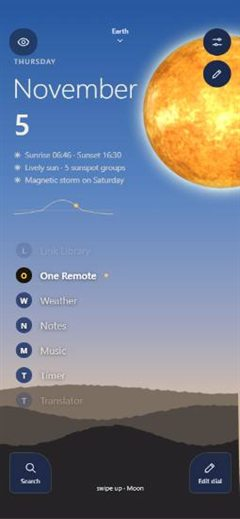
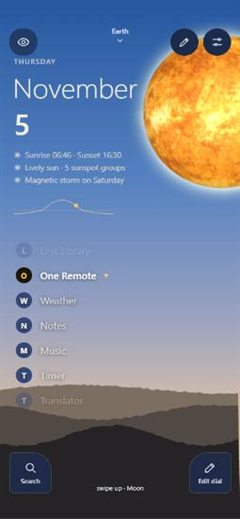
Sun Launcher v111: pencil in the top row, Sun list can stop at its ends, lists clear of all buttons

Changed region(s): [[0.6125, 0.0308, 1.0, 0.3391], [0.9625, 0.2775, 1.0, 0.3699], [0.7, 0.2775, 0.7583, 0.3391]]

diff --git a/index.html b/index.html
@@ -255,7 +255,7 @@ button:focus-visible, a:focus-visible, .seg input:focus-visible + label, input:f
 /* Sun views (22 Oct): the app buttons become cards (Real sun today), a plain list (Minimal sun) or text on a dial (Clock dial) */
 #app.sv #sunInfo, #app.sv #clockChip { display: none !important; }
 #app.sv .facet.sv-off { opacity: 0 !important; pointer-events: none; }
-#app.sv-today .facet { width: min(278px, calc(100vw - 96px)); height: 52px; border-radius: 14px; padding: 0 16px; gap: 12px; font-size: 16px; transform-origin: 50% 50%; }
+#app.sv-today .facet { width: var(--todayw, min(278px, calc(100vw - 96px))); height: 52px; border-radius: 14px; padding: 0 16px; gap: 12px; font-size: 16px; transform-origin: 50% 50%; }
 #app.sv-minimal .facet, #app.sv-clock .facet:not(.front) { background: transparent !important; border-color: transparent !important; box-shadow: none !important; -webkit-backdrop-filter: none !important; backdrop-filter: none !important; text-shadow: 0 1px 6px rgba(0, 0, 0, 0.7); }
 #app.sv-minimal .facet { height: 40px; gap: 14px; padding: 0 8px; font-size: 17px; font-weight: 400; color: rgba(250, 244, 236, 0.75); transform-origin: 0 50%; }
 #app.sv-minimal .facet .ini { width: 28px; height: 28px; }
@@ -821,9 +821,10 @@ label[for="photo-stars"] { background-image: url("sky-night.jpg"); }
 #app.ml-dial3d .item:not(.sel) { background: rgba(38, 54, 94, .94); border-color: rgba(235, 240, 250, .6); }
 #app:not(.sv) .facet.mini { width: 40px; height: 40px; padding: 0; justify-content: center; background: rgba(38, 54, 94, .94) !important; border: 1.5px solid rgba(235, 240, 250, .6) !important; }
 #app:not(.sv) .facet.mini .ini { background: transparent; color: #EEF0F5; }
-/* v110 (user): a clear Edit button on every screen, under Settings */
-.roundbtn.editl { top: calc(72px + var(--st)); right: max(16px, env(safe-area-inset-right, 0px)); }
+/* v110 (user): a clear Edit button on every screen; v111: in the top row, beside Settings */
+.roundbtn.editl { right: calc(72px + env(safe-area-inset-right, 0px)); }
 #app.watch .roundbtn.editl, #app.editing .roundbtn.editl { opacity: 0; pointer-events: none; }
+@media (max-width: 400px) { .handle.top { width: 116px; margin-left: -58px; font-size: 11px; white-space: nowrap; overflow: hidden; } }
 </style>
 
 <div id="app">
@@ -1078,6 +1079,13 @@ label[for="photo-stars"] { background-image: url("sky-night.jpg"); }
         <div class="seg">
           <input type="radio" name="listStyle" id="ls-pills" value="pills"><label for="ls-pills">Pills</label>
           <input type="radio" name="listStyle" id="ls-plain" value="plain"><label for="ls-plain">Plain</label>
+        </div>
+      </fieldset>
+      <fieldset>
+        <legend>Sun list</legend>
+        <div class="seg">
+          <input type="radio" name="sunList" id="sli-loop" value="loop"><label for="sli-loop">Loop</label>
+          <input type="radio" name="sunList" id="sli-ends" value="ends"><label for="sli-ends">Stop at ends</label>
         </div>
       </fieldset>
       <fieldset>
@@ -1471,7 +1479,8 @@ label[for="photo-stars"] { background-image: url("sky-night.jpg"); }
 (function () {
   'use strict';
   const $ = (id) => document.getElementById(id);
-  const APP_VERSION = 'v110';  // v61: shown in Updates and About (sw.js CACHE has the same number)
+  const realText = (s) => /^\[.*\]$/.test(s || '') ? '' : s;  // v111: "[One line on ...]" waits for real text; it is not shown
+  const APP_VERSION = 'v111';  // v61: shown in Updates and About (sw.js CACHE has the same number)
   const setText = (id, t) => { const el = $(id); if (el.textContent !== t) el.textContent = t; };  // v59
   let reduce = false;
   try { reduce = window.matchMedia('(prefers-reduced-motion: reduce)').matches; } catch (e) {}
@@ -1549,7 +1558,7 @@ label[for="photo-stars"] { background-image: url("sky-night.jpg"); }
   const FRONT_FX = ['lift', 'dim', 'halo', 'glint'];
   // Neon look styles (22 Oct: user removed the old Neon, Cyberpunk and Tron; Minimal is the default).
   const NEON_STYLES = ['minimal', 'synth'];
-  const S = { moonList: 'ends', listStyle: 'pills', dialBy: {}, dailyModel: 'off', dailyDay: '', moonModel: 'real', mode: 'two', theme: 'auto', sunLook: 'rays', sunView: 'dial', pairLink: 'on', chargeMode: 'auto', dir: 'flat', moonLook: 'dots', color: '#FFC94D', sunTime: true, fx: 'fancy', haptics: 'soft', sound: 'off', tilt: 45, size: 125, sky: 'clock', hour: 12, rayStyle: 'glow', frontFx: [], swap: 'off', skyPhoto: 'clear', moonDial: 'glow', sunList: 'edge', neonStyle: 'minimal', liveSun: 'off', weather: 'off', moonPhase: 'real', startScreen: 'planet', order: BASE_APPS.map((a) => a.name), onMoon: [], recent: [], favs: ['Backup & restore', 'Theme', 'Offline status'], custom: null, visits: 0, pins: [], useHours: {}, tune: {}, looks: { sun: [], moon: [] }, sunSet: 'off', tips: 'on', hints: {}, loc: 'fixed', place: null, textSize: 'normal', apps: null, chipsPos: 'below', notes: 'on', seasons: 'off', useWeek: {}, seasonsOff74: 0, strip: 'off', clockStyle: 'thin', timePos: 'top', eyePos: 'top', homePages: null, homeDock: null, flySound: 'off', flySharp: 'on', eyeAt: {}, skyAlerts: 'off', realClouds: 'on', cloudDay: '', cloudTry: 0 };
+  const S = { sunList: 'loop', moonList: 'ends', listStyle: 'pills', dialBy: {}, dailyModel: 'off', dailyDay: '', moonModel: 'real', mode: 'two', theme: 'auto', sunLook: 'rays', sunView: 'dial', pairLink: 'on', chargeMode: 'auto', dir: 'flat', moonLook: 'dots', color: '#FFC94D', sunTime: true, fx: 'fancy', haptics: 'soft', sound: 'off', tilt: 45, size: 125, sky: 'clock', hour: 12, rayStyle: 'glow', frontFx: [], swap: 'off', skyPhoto: 'clear', moonDial: 'glow', sunList: 'edge', neonStyle: 'minimal', liveSun: 'off', weather: 'off', moonPhase: 'real', startScreen: 'planet', order: BASE_APPS.map((a) => a.name), onMoon: [], recent: [], favs: ['Backup & restore', 'Theme', 'Offline status'], custom: null, visits: 0, pins: [], useHours: {}, tune: {}, looks: { sun: [], moon: [] }, sunSet: 'off', tips: 'on', hints: {}, loc: 'fixed', place: null, textSize: 'normal', apps: null, chipsPos: 'below', notes: 'on', seasons: 'off', useWeek: {}, seasonsOff74: 0, strip: 'off', clockStyle: 'thin', timePos: 'top', eyePos: 'top', homePages: null, homeDock: null, flySound: 'off', flySharp: 'on', eyeAt: {}, skyAlerts: 'off', realClouds: 'on', cloudDay: '', cloudTry: 0 };
   try {
     let saved = JSON.parse(localStorage.getItem(KEY) || 'null');
     if (!saved) {
@@ -1612,6 +1621,7 @@ label[for="photo-stars"] { background-image: url("sky-night.jpg"); }
   if (['real', 'corona', 'disco', 'dandelion', 'eclipse', 'flames', 'neon', 'synth'].indexOf(S.moonModel) === -1) S.moonModel = 'real';  // v100
   if (S.dailyModel !== 'on') S.dailyModel = 'off';  // v102
   if (S.moonList !== 'loop') S.moonList = 'ends';  // v110
+  if (S.sunList !== 'ends') S.sunList = 'loop';  // v111
   if (S.listStyle !== 'plain') S.listStyle = 'pills';  // v110
   if (!S.dialBy || typeof S.dialBy !== 'object') S.dialBy = {};  // v110
   if (S.moonModel === 'real' && S.sunLook === 'rays' && S.rayStyle === 'corona') S.moonModel = 'corona';  // v110: Corona has its own moon
@@ -2971,6 +2981,7 @@ label[for="photo-stars"] { background-image: url("sky-night.jpg"); }
       st[st.spin] += st.vel * dt;
       st.vel *= Math.exp(-dt / 325);
       let stop = Math.abs(st.vel) < (st.spin === 'rot' ? 0.03 : 0.0006);
+      if (st.spin === 'rot' && sunEnds()) { const u = (frontDeg() - st.rot) / (360 / APPS.length); if (u < -0.3 || u > APPS.length - 0.7) stop = true; }
       if (st.spin === 'pos' && !moonLoops() && (st.pos < -0.3 || st.pos > LIST.length - 0.7)) stop = true;
       if (stop) { const key = st.spin; st.spin = null; if (key === 'rot') snapRot(); else snapPos(); }
       active = true;
@@ -3115,14 +3126,23 @@ label[for="photo-stars"] { background-image: url("sky-night.jpg"); }
     const n = APPS.length, step = 360 / n;
     return ((Math.round((frontDeg() - st.rot) / step) % n) + n) % n;
   }
+  // v111 (user: uniform, no overlaps): a list name fades before it reaches the top row of buttons or the bottom corners. 1 = free, 0 = gone
+  function roomK(side, y) {
+    const g = $(side + 'Settings'), b = $(side + 'Search');
+    if (!b.offsetHeight) return 1;
+    return clamp((y - 22 - g.offsetTop - g.offsetHeight) / 20, 0, 1) * clamp((b.offsetTop - y - 22) / 20, 0, 1);
+  }
+  // v111 (user): the Sun list can stop at its ends too; it then shows nothing past its first and last app
+  const sunEnds = () => S.sunList === 'ends' && APPS.length > 2;
+  function sunNormal() { st.rot = frontDeg() - frontIndex() * 360 / Math.max(1, APPS.length); }
   function snapRot() {
-    const step = 360 / APPS.length, fd = frontDeg(), k = Math.round((fd - st.rot) / step);
+    const step = 360 / APPS.length, fd = frontDeg(), k0 = Math.round((fd - st.rot) / step), k = sunEnds() ? clamp(k0, 0, APPS.length - 1) : k0;
     tween('rot', fd - k * step, 320);
   }
   function rotateTo(i) {
     const step = 360 / APPS.length, base = frontDeg() - i * step;
     const d = ((((base - st.rot) % 360) + 540) % 360) - 180;
-    tween('rot', st.rot + d, 480);
+    tween('rot', sunEnds() ? base : st.rot + d, 480);
   }
 
   let facetEls = [];
@@ -3559,7 +3579,8 @@ label[for="photo-stars"] { background-image: url("sky-night.jpg"); }
       }
       el.classList.toggle('flip', flip);
       el.style.zIndex = String(500 + Math.round(p[3]));
-      const below = hzD.on && i !== front && p[1] > hzY() - 24;  // v45: behind the hills
+      const past = sunEnds() && Math.abs(i - (frontDeg() - st.rot) / (360 / APPS.length)) > APPS.length / 2;  // v111: past the end of the list
+      const below = past || (hzD.on && i !== front && p[1] > hzY() - 24);  // v45: behind the hills
       el.style.opacity = below ? '0' : (0.3 + 0.7 * f).toFixed(2);
       el.style.pointerEvents = below ? 'none' : '';
       // v34: only the front app shows its name; the neighbours show their round initial (they slid under the front pill)
@@ -3575,7 +3596,7 @@ label[for="photo-stars"] { background-image: url("sky-night.jpg"); }
         el.setAttribute('aria-label', APPS[i].name + (i === front ? ', in front. Tap to open, hold for shortcuts' : ''));
       });
       $('sunName').textContent = APPS[front].name;
-      $('sunHint').textContent = APPS[front].hint;
+      $('sunHint').textContent = realText(APPS[front].hint);
       lastFront = front;
     }
     let maxY = 0, minY = H;
@@ -3744,17 +3765,20 @@ label[for="photo-stars"] { background-image: url("sky-night.jpg"); }
       if (look === 'blackhole' && r >= 30) Object.assign(opt, { mode: 'blackhole', glow: 1, margin: Math.max(opt.margin, 1.9) });
       GLB.draw(c, x, y, r, opt);
     };
-    const dOf = (i) => { let d = (((i - pos) % n) + n) % n; if (d > n / 2) d -= n; return d; };
-    const place = (fn) => facetEls.forEach((el, i) => {
+    const dOf = (i) => { if (sunEnds()) return i - pos; let d = (((i - pos) % n) + n) % n; if (d > n / 2) d -= n; return d; };
+    const sbT = $('sunSearch'); let tNarrow = false;
+    const place = (fn) => { facetEls.forEach((el, i) => {
       el.classList.remove('mini', 'flip');
       const r = fn(dOf(i), i === front, el);
+      if (S.sunView === 'today') { if (r && sbT.offsetHeight && r.y + 24 > sbT.offsetTop) tNarrow = true; }
+      else if (r && i !== front) { const k = roomK('sun', r.y); if (k <= 0) { el.classList.add('sv-off'); return; } r.o *= k; }
       el.classList.toggle('sv-off', !r);
       if (!r) return;
       if (r.mini) el.classList.add('mini');
       el.style.transform = 'translate(' + r.x.toFixed(1) + 'px,' + r.y.toFixed(1) + 'px) translate(' + (r.left ? '0' : '-50%') + ',-50%) scale(' + (r.s || 1).toFixed(3) + ')';
       el.style.opacity = clamp(r.o, 0, 1).toFixed(2);
       el.style.zIndex = String(i === front ? 520 : 510);
-    });
+    }); if (S.sunView === 'today') app.style.setProperty('--todayw', tNarrow ? (W - 2 * (sbT.offsetLeft + sbT.offsetWidth + 8)) + 'px' : ''); };
     if (front !== lastFront) {
       facetEls.forEach((el, i) => { el.classList.toggle('front', i === front); el.setAttribute('aria-label', APPS[i].name + (i === front ? ', selected. Tap to open, hold for shortcuts' : '')); });
       lastFront = front;
@@ -3848,7 +3872,7 @@ label[for="photo-stars"] { background-image: url("sky-night.jpg"); }
       }
       const cur = APPS[front];
       txt(cur.name, W / 2, H * 0.7, 30, 600, '#F5EFE3', 'center');
-      if (cur.hint) txt(cur.hint, W / 2, H * 0.745, 15, 400, muted, 'center');
+      if (realText(cur.hint)) txt(cur.hint, W / 2, H * 0.745, 15, 400, muted, 'center');
       place((d) => {
         if (Math.abs(d) > 4.5) return null;
         const a = d * stepA;
@@ -4288,8 +4312,9 @@ label[for="photo-stars"] { background-image: url("sky-night.jpg"); }
       const x = G.Ix - G.Ri * Math.cos(rad), y = cy + G.Ri * Math.sin(rad);
       const sc = isSel ? 1.3 : 1 - Math.min(ad, 60) / 60 * 0.16;
       el.style.transform = 'translate(' + x.toFixed(1) + 'px,' + y.toFixed(1) + 'px) translate(-14px,-50%) scale(' + sc.toFixed(3) + ')';
-      el.style.opacity = isSel ? '1' : fade.toFixed(2);
-      el.style.visibility = fade > 0.02 || isSel ? 'visible' : 'hidden';
+      const fk = fade * roomK('moon', y);
+      el.style.opacity = isSel ? '1' : fk.toFixed(2);
+      el.style.visibility = fk > 0.02 || isSel ? 'visible' : 'hidden';
     });
     $('moonTip').hidden = !showTips;
     if (live !== lastLive && cur) {
@@ -4298,7 +4323,7 @@ label[for="photo-stars"] { background-image: url("sky-night.jpg"); }
         el.setAttribute('aria-label', LIST[i].name + (i === live ? ', selected. Tap to open' : ''));
       });
       $('moonName').textContent = cur.name;
-      $('moonHint').textContent = cur.app ? cur.hint : cur.group + ' · ' + (live + 1) + ' of ' + N;
+      $('moonHint').textContent = cur.app ? realText(cur.hint) : cur.group + ' · ' + (live + 1) + ' of ' + N;
       lastLive = live; moonInfoH = 0;
     }
     if (look !== vsMoonShown) { vsMoonShown = look; moonInfoH = 0; vsRender(); }  // v59: "Follow the time" changed the moon: the slider follows
@@ -4487,7 +4512,8 @@ label[for="photo-stars"] { background-image: url("sky-night.jpg"); }
     drawWeather(c, W, H, now);
     drawRipples(c, 'moon', now, '#DCE2EE');
     // menu items: cards (D) or a plain list (B), the chosen one in the middle; scroll with the finger
-    const cw = Math.min(280, W - 100);
+    // v111 (user): if the rows reach the height of Search, they get narrower and stay clear of it
+    const sb = $('moonSearch'), sbX = sb.offsetLeft + sb.offsetWidth + 8, cw = cards && listY + rowGap + 24 > sb.offsetTop ? Math.min(280, W - 2 * sbX) : Math.min(280, W - 100);
     $('items').style.setProperty('--cardw', Math.round(cw) + 'px');
     itemEls.forEach((el, i) => {
       const dd = moonD(i), ad = Math.abs(dd);
@@ -4497,8 +4523,9 @@ label[for="photo-stars"] { background-image: url("sky-night.jpg"); }
         const rad = dd * 7.2 * Math.PI / 180, x = scene.C0 + scene.r * Math.cos(rad), y = scene.C1 + scene.r * Math.sin(rad), sel = i === live;
         el.dataset.n = String(i + 1).padStart(2, '0');
         el.style.transform = 'translate(' + (x + (sel ? 0 : 6)).toFixed(1) + 'px,' + y.toFixed(1) + 'px) translate(0,-50%) scale(' + (sel ? 1 : Math.max(0.7, 1 - ad * 0.058)).toFixed(3) + ')';
-        el.style.opacity = ad < 7.5 ? (sel ? '1' : Math.max(0.12, 1 - ad * 0.17).toFixed(2)) : '0';
-        el.style.visibility = ad < 7.5 ? 'visible' : 'hidden';
+        const rk = sel ? 1 : roomK('moon', y);
+        el.style.opacity = ad < 7.5 ? (sel ? '1' : (Math.max(0.12, 1 - ad * 0.17) * rk).toFixed(2)) : '0';
+        el.style.visibility = ad < 7.5 && rk > 0 ? 'visible' : 'hidden';
         el.style.zIndex = String(200 - Math.round(ad * 10));
         return;
       }
@@ -4520,11 +4547,12 @@ label[for="photo-stars"] { background-image: url("sky-night.jpg"); }
         el.style.zIndex = String(sel ? 300 : Math.round(100 + f * 100));
         return;
       }
-      const vis = cards ? ad < 1.6 && (!phaseRow || listY + dd * rowGap > phaseRow.y + 80) : ad < 4.6;  // v73: never on the mini moons
+      const lk = cards || i === live ? 1 : roomK('moon', listY + dd * rowGap);
+      const vis = cards ? ad < 1.6 && (!phaseRow || listY + dd * rowGap > phaseRow.y + 80) : ad < 4.6 && lk > 0;  // v73: never on the mini moons
       el.style.zIndex = String(200 - Math.round(ad * 10));
       if (cards) el.style.transform = 'translate(' + (W / 2).toFixed(1) + 'px,' + (listY + dd * rowGap).toFixed(1) + 'px) translate(-50%,-50%) scale(' + (1 - Math.min(ad, 2) * 0.06).toFixed(3) + ')';
       else el.style.transform = 'translate(18px,' + (listY + dd * rowGap).toFixed(1) + 'px) translate(0,-50%)';
-      el.style.opacity = vis ? Math.max(0.15, 1 - ad * (cards ? 0.38 : 0.2)).toFixed(2) : '0';
+      el.style.opacity = vis ? (Math.max(0.15, 1 - ad * (cards ? 0.38 : 0.2)) * lk).toFixed(2) : '0';
       el.style.visibility = vis ? 'visible' : 'hidden';
     });
     labelEls.forEach((el) => { el.style.transform = 'translate(-999px,-999px)'; });
@@ -4532,7 +4560,7 @@ label[for="photo-stars"] { background-image: url("sky-night.jpg"); }
     if (live !== lastLive && cur) {
       itemEls.forEach((el, i) => { el.classList.toggle('sel', i === live); el.setAttribute('aria-label', LIST[i].name + (i === live ? ', selected. Tap to open' : '')); });
       $('moonName').textContent = cur.name;
-      $('moonHint').textContent = cur.app ? cur.hint : cur.group + ' · ' + (live + 1) + ' of ' + LIST.length;
+      $('moonHint').textContent = cur.app ? realText(cur.hint) : cur.group + ' · ' + (live + 1) + ' of ' + LIST.length;
       lastLive = live;
     }
     $('moonInfo').style.top = Math.round(H + 40) + 'px';
@@ -6886,6 +6914,7 @@ label[for="photo-stars"] { background-image: url("sky-night.jpg"); }
       // ring screens turn with a sideways swipe (v34)
       const svg = sv ? sunViewGeo() : null;
       st.rot = sv ? drag.start + (svg.sideways ? dx : dy) / svg.row * (360 / APPS.length) : drag.start - along * 0.5 * (G.sinT < 0 ? -1 : 1);
+      if (sunEnds()) { const sp = 360 / APPS.length, fd = frontDeg(); st.rot = clamp(st.rot, fd - (APPS.length - 0.6) * sp, fd + 0.4 * sp); }
       drag.samples.push({ t: performance.now(), v: st.rot });
       if (drag.samples.length > 8) drag.samples.shift();
       kick();
@@ -7600,12 +7629,12 @@ label[for="photo-stars"] { background-image: url("sky-night.jpg"); }
     openSheet(a.name, 'Link not set yet: [' + a.name + ' address].', '', false);
   }
   function openShortcuts(a) {
-    const acts = (a.short || []).map((q) => ({
+    const acts = (a.short || []).filter((q) => realText(q.label)).map((q) => ({
       label: q.label,
       run: () => { pushRecent(a.name); if (!q.href && a.name === 'Timer') { const n = /(\d+)/.exec(q.label); if (/stopwatch/i.test(q.label)) openTimer('stop', 0, true); else openTimer(n ? 'timer' : 'focus', n ? +n[1] : 0, true); return; } if (q.href) { hapt('press'); const w = window.open(q.href, '_blank'); if (w) w.opener = null; else location.href = q.href; } else toast(a.name + ': ' + q.label + ' has no link yet (Edit app).'); }
     }));
     acts.push({ label: '✎ Edit app', run: () => openAppForm(a.name) }, { label: 'Remove ' + a.name, run: () => askRemove(a.name) });
-    openSheet(a.name, a.short && a.short.length ? 'Quick actions' : 'No quick actions yet: add them in Edit app.', a.href, false, acts);
+    openSheet(a.name, acts.length ? 'Quick actions' : 'No quick actions yet: add them in Edit app.', a.href, false, acts);
   }
   // v61: the Moon menu functions (user): Look opens the right part of Settings, Data saves / loads / cleans,
   // Safety and Info explain, Phone opens its setting. Things a web app cannot do say so in one line.
@@ -7664,7 +7693,7 @@ label[for="photo-stars"] { background-image: url("sky-night.jpg"); }
   try { if (navigator.storage && navigator.storage.persisted) navigator.storage.persisted().then((p) => p || !navigator.storage.persist ? p : navigator.storage.persist()).then((p) => { storageKept = !!p; }).catch(() => {}); } catch (e) {}
   function mb(b) { return (b / 1048576).toFixed(b < 10485760 ? 1 : 0) + ' MB'; }
   function sheetInfo(title, text, actions) { openSheet(title, text, '', false, actions); $('sheetText').style.whiteSpace = 'pre-line'; }
-  const NEWS = 'v110 · Sun and Moon now match better on every screen, and both lists open in the middle. New Corona and Flames moons, soft eclipse rays, stronger Neon, softer Disco light. An Edit button on every screen. The flight has true sizes.';
+  const NEWS = 'v111 · Sun and Moon now match better on every screen, and both lists open in the middle. Each list can loop or stop at its ends. New Corona and Flames moons, soft eclipse rays, stronger Neon, softer Disco light. An Edit button on every screen. The flight has true sizes.';
   const FUNC_RUN = {
     // Look
     'Theme': () => openSettingsAt('Look follows the time of day'),
@@ -8153,7 +8182,7 @@ label[for="photo-stars"] { background-image: url("sky-night.jpg"); }
 
   /* ---------- Settings ---------- */
   const form = $('settingsForm');
-  const RADIOS = ['mode', 'theme', 'moonLook', 'sky', 'fx', 'haptics', 'sound', 'skyPhoto', 'moonDial', 'neonStyle', 'liveSun', 'weather', 'moonPhase', 'startScreen', 'sunView', 'chargeMode', 'sunSet', 'tips', 'loc', 'notes', 'seasons', 'strip', 'clockStyle', 'flySound', 'flySharp', 'skyAlerts', 'realClouds', 'moonModel', 'dailyModel', 'moonList', 'listStyle'];
+  const RADIOS = ['mode', 'theme', 'moonLook', 'sky', 'fx', 'haptics', 'sound', 'skyPhoto', 'moonDial', 'neonStyle', 'liveSun', 'weather', 'moonPhase', 'startScreen', 'sunView', 'chargeMode', 'sunSet', 'tips', 'loc', 'notes', 'seasons', 'strip', 'clockStyle', 'flySound', 'flySharp', 'skyAlerts', 'realClouds', 'moonModel', 'dailyModel', 'sunList', 'moonList', 'listStyle'];
   // v90 (user): the flight's sound can be a file from the phone; kept only on this phone
   $('flyPick').addEventListener('click', () => $('flyFile').click());
   $('flyFile').addEventListener('change', function () {
@@ -8513,6 +8542,7 @@ label[for="photo-stars"] { background-image: url("sky-night.jpg"); }
     if (changed === 'moonLook') S.moonLook = tappedMoon;
     if (changed === 'color') { S.sunTime = tappedColor[0]; S.color = tappedColor[1]; }
     if (changed === 'sunView') sunStyleUI();
+    if (changed === 'sunList') { sunNormal(); lastFront = -1; }
     if (changed === 'moonList' && LIST.length) { const n = LIST.length; st.pos = ((Math.round(st.pos) % n) + n) % n; }
     if (changed === 'pairLink') { S.pairLink = $('pairLink').checked ? 'on' : 'off'; pairUI(); }
     if (changed === 'pair') {

diff --git a/sw.js b/sw.js
@@ -2,7 +2,7 @@
 // because Docs Reader and Scanner share this web address (harisonbd.github.io).
 // v42: two caches. CACHE (app code, new each version, ~0.3 MB) and MEDIA (photos and maps, kept across
 // versions so an update does not download them again). Change MEDIA only when a picture's content changes.
-const CACHE = 'sun-launcher-v110';
+const CACHE = 'sun-launcher-v111';
 const MEDIA = 'sun-launcher-media-1';
 const FILES = ['./', './index.html', './manifest.webmanifest', './icon-192.png', './icon-512.png', './icon-maskable-512.png'];
 const PICS = ['./tex-sun.jpg', './tex-moon.jpg', './sky-sunset.jpg', './sky-dawn.jpg', './sky-day.jpg', './sky-bluehour.jpg', './sky-night.jpg', './sky-overcast.jpg', './sky-rain.jpg', './sky-snow.jpg', './sky-snow-night.jpg', './sky-fog.jpg', './sky-storm.jpg', './saturn.jpg', './saturn-ring.png', './earth-day.jpg', './earth-night.jpg', './earth-clouds.jpg'];
